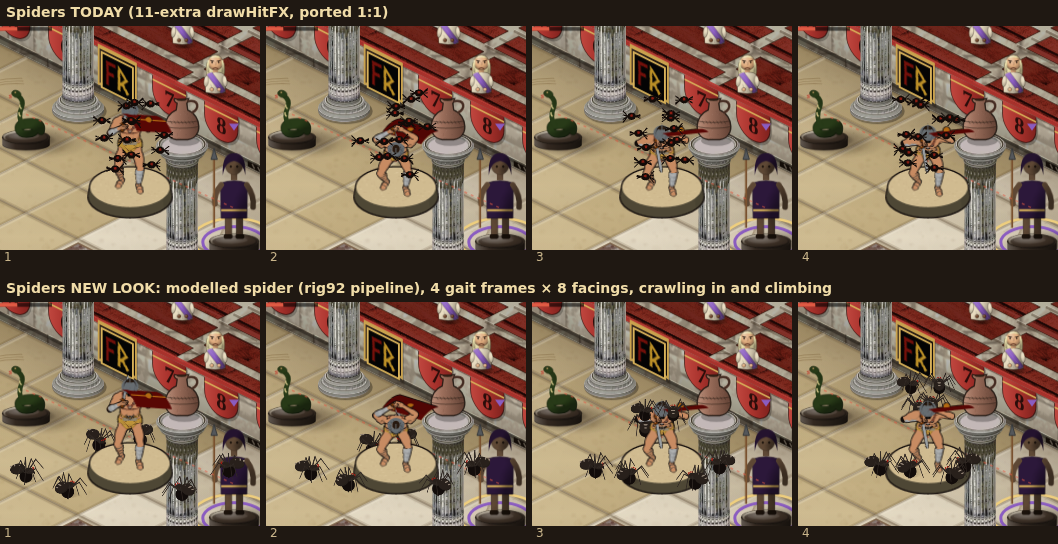
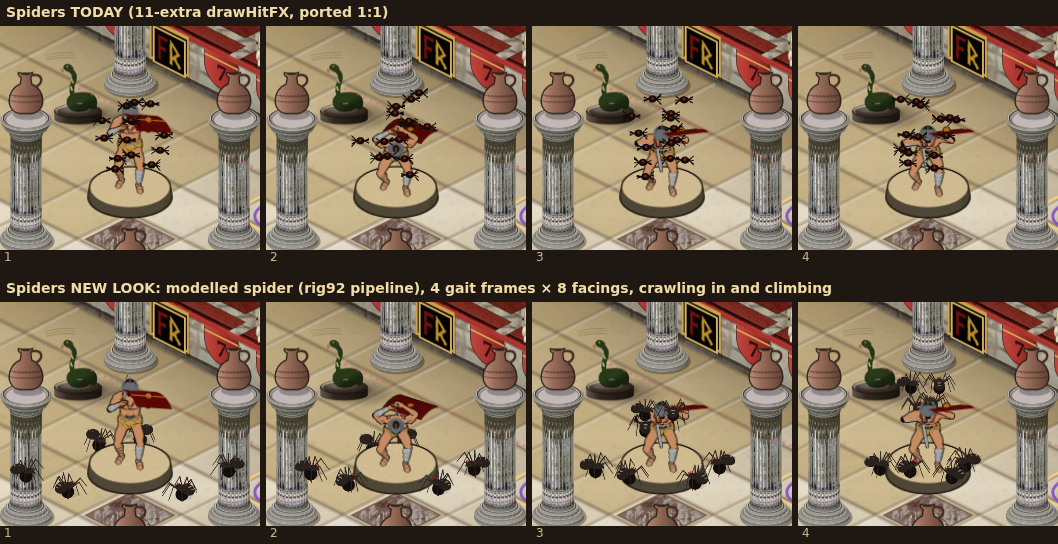
look100: anim/spec WIP [skip ci]
Claude-Session: https://claude.ai/code/session_01BLtNGuDrMd265uhsDUPs5S

diff --git a/tools/plans/look100/anim_comp.js b/tools/plans/look100/anim_comp.js
@@ -53,10 +53,12 @@
   }
 
   /* ------------------------------------------------ 2. the clip: walk two tiles + attack ------------------------------------------------ */
+  /* a tile is clear when nothing stands on it and no piece in front of it (lower on screen, within a tile sideways) can hide a token there */
+  function clear(B, r, c) { for (const [or, oc] of B.occ) { const dx = (oc - or) - (c - r), dy = (oc + or) - (c + r); if (dx === 0 && dy === 0) return false; if (Math.abs(dx) <= 1 && dy >= 1 && dy <= 4) return false; } return r >= 0 && c >= 0 && r < B.N && c < B.N; }
   function pickPath(B, len, extra = 1) {
     const free = freeSet(B); let best = null;
     for (let r = 0; r < B.N - 1; r++) for (let c0 = 0; c0 + len <= B.N; c0++) {
-      let ok = true; for (let k = -1; k <= len; k++) for (let dr = 0; dr <= extra; dr++) if ((r + dr >= 0 && c0 + k >= 0 && r + dr < B.N && c0 + k < B.N) && !free(r + dr, c0 + k)) ok = false;
+      let ok = true; for (let k = 0; k < len; k++) if (!clear(B, r, c0 + k)) ok = false;
       if (!ok) continue; const a = T(B, r, c0), b = T(B, r, c0 + len - 1); if (!inView(B, a, 70) || !inView(B, b, 70)) continue;
       const mid = { x: (a.x + b.x) / 2, y: (a.y + b.y) / 2 }; const cx = B.canvas.x + B.canvas.w / 2, cy = B.canvas.y + B.canvas.h / 2;
       const d = Math.hypot(mid.x - cx, mid.y - cy); if (!best || d < best.d) best = { r, c0, d };
@@ -147,7 +149,7 @@
   }
   function spiders(B, shot) {
     const free = freeSet(B); let tile = null, bd = 1e9; const cx = B.canvas.x + B.canvas.w * 0.45, cy = B.canvas.y + B.canvas.h * 0.55;
-    for (let r = 1; r < B.N - 1; r++) for (let c = 1; c < B.N - 1; c++) { let ok = true; for (let dr = -1; dr <= 1; dr++) for (let dc = -1; dc <= 1; dc++) if (!free(r + dr, c + dc)) ok = false; const p = T(B, r, c); if (!ok || !inView(B, p, 100)) continue; const d = Math.hypot(p.x - cx, p.y - cy); if (d < bd) { bd = d; tile = { r, c, p }; } }
+    for (let r = 1; r < B.N - 1; r++) for (let c = 1; c < B.N - 1; c++) { let ok = true; for (let dr = -1; dr <= 1; dr++) for (let dc = -1; dc <= 1; dc++) if (!free(r + dr, c + dc)) ok = false; if (!clear(B, r, c)) ok = false; const p = T(B, r, c); if (!ok || !inView(B, p, 100)) continue; const d = Math.hypot(p.x - cx, p.y - cy); if (d < bd) { bd = d; tile = { r, c, p }; } }
     const A = SHEETS.main, SP = SHEETS.spider; const s = 0.8 * B.tw / (25.4 * PXMM), ss = s * 0.42;
     const m = tile.p; const x0 = m.x - B.tw * 1.25, y0 = m.y - B.tw * 1.55, W = Math.round(B.tw * 2.5), H = Math.round(B.tw * 2.15);
     /* six spiders: start on the neighbouring tiles, crawl to him; two climb him in the last frames */
@@ -174,7 +176,7 @@
   function bounty(B, shot, rtok) {
     const free = freeSet(B);
     const seats = B.seats.filter(p => inView(B, p, 40)); let best = null;
-    for (const st of seats) for (let r = 0; r < B.N; r++) for (let c = 0; c < B.N; c++) { if (!free(r, c)) continue; const p = T(B, r, c); if (!inView(B, p, 70)) continue; const d = Math.hypot(p.x - st.x, p.y - st.y); if (d > B.tw * 1.6 && d < B.tw * 3.2 && (!best || Math.abs(d - B.tw * 2.4) < best.e)) best = { st, p, e: Math.abs(d - B.tw * 2.4) }; }
+    for (const st of seats) for (let r = 0; r < B.N; r++) for (let c = 0; c < B.N; c++) { if (!clear(B, r, c)) continue; const p = T(B, r, c); if (!inView(B, p, 70)) continue; const d = Math.hypot(p.x - st.x, p.y - st.y); if (d > B.tw * 1.6 && d < B.tw * 3.2 && (!best || Math.abs(d - B.tw * 2.4) < best.e)) best = { st, p, e: Math.abs(d - B.tw * 2.4) }; }
     const { st, p } = best; const hx = st.x, hy = st.y - B.crowdH * 0.85;
     const x0 = Math.min(hx, p.x) - B.tw * 0.8, x1 = Math.max(hx, p.x) + B.tw * 0.8, y0 = Math.min(hy, p.y) - B.tw * 1.3, y1 = Math.max(hy, p.y) + B.tw * 0.45;
     const W = Math.round(x1 - x0), H = Math.round(y1 - y0); const out = [];
